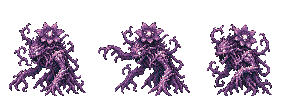
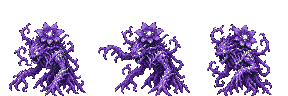
スイナ原画の青紫4色を追加し戦闘素材だけを再配色

Changed region(s): [[0.3438, 0.2188, 0.6562, 1.0], [0.0312, 0.2188, 0.3125, 1.0], [0.7188, 0.25, 0.9688, 1.0]]

diff --git a/tools/import_party_forms.py b/tools/import_party_forms.py
@@ -9,7 +9,7 @@ from validate_assets import load_palette
 COLORS={
 'pc_02':['250F07','3A2317','5D2717','68422F','90422D','9A6048','BF694D','D09279','3D0B14','74281B','B3433F','314619','657B2A','88A441','B2CA60','C8DB7F','D9CCB4','E9E7CB','EEF6EB','CE9F54'],
 'pc_03':['0B1824','162835','254A63','728593','BDC7D3','EEF6EB','3C3B35','58544C','726C61','8A8374','A49A88','B5AA95','C4BAA4','D9CCB4','E9E7CB','3A2317','68422F','CE9F54','EDBB5B','F6D275'],
-'pc_04':['27172A','53335F','8C5996','D991B5','0B1824','153550','254A63','728593','BDC7D3','EEF6EB','3A2317','68422F','CE9F54','D7B778','EDBB5B','F6D275','22221E','58544C','B5AA95','E9E7CB']}
+'pc_04':['2C1251','4D267F','7342B7','A778DE','0B1824','153550','254A63','728593','BDC7D3','EEF6EB','3A2317','68422F','CE9F54','D7B778','EDBB5B','F6D275','22221E','58544C','B5AA95','E9E7CB']}
 WALK_COLORS={
 'pc_02':['250F07','3A2317','68422F','90422D','9A6048','BF694D','D09279','B3433F','314619','657B2A','88A441','C8DB7F','D9CCB4','E9E7CB','EEF6EB','CE9F54'],
 'pc_03':['0B1824','254A63','728593','BDC7D3','EEF6EB','3C3B35','58544C','8A8374','B5AA95','C4BAA4','D9CCB4','E9E7CB','3A2317','68422F','CE9F54','F6D275'],
@@ -43,7 +43,7 @@ def paint(frame,actor,form,pose,kind,palette):
     if actor=='pc_04':
         # 青紫をRGB距離だけで選ぶと淡い桃色へ偏る。紫の段階から明度が近い色を選ぶ。
         purple=(rgb[:,:,2]>rgb[:,:,1]*1.3)&(rgb[:,:,0]>rgb[:,:,1]*1.15)&(rgb[:,:,0]>rgb[:,:,2]*.5)
-        ramp=np.array([[39,23,42],[83,51,95],[140,89,150],[217,145,181],[238,246,235]])
+        ramp=np.array([[44,18,81],[77,38,127],[115,66,183],[167,120,222],[238,246,235]]) if kind=='battle' else np.array([[39,23,42],[83,51,95],[140,89,150],[217,145,181],[238,246,235]])
         lum=(target*[.2126,.7152,.0722]).sum(2)
         levels=(ramp*[.2126,.7152,.0722]).sum(1)
         indices=abs(lum[:,:,None]-levels).argmin(2)
@@ -76,13 +76,13 @@ def paint(frame,actor,form,pose,kind,palette):
     return Image.fromarray(a),dict(gamma=gamma,light_cores=cores,source_glow_pixels=int(glow.sum()))
 
 def main():
-    parser=argparse.ArgumentParser();parser.add_argument('--actors',nargs='+',default=list(ACTORS));parser.add_argument('--forms',nargs='+',default=FORMS);args=parser.parse_args()
+    parser=argparse.ArgumentParser();parser.add_argument('--actors',nargs='+',default=list(ACTORS));parser.add_argument('--forms',nargs='+',default=FORMS);parser.add_argument('--kinds',nargs='+',choices=['battle','walk'],default=['battle','walk']);args=parser.parse_args()
     registry_path=ROOT/'assets/registry.json';registry=json.loads(registry_path.read_text(encoding='utf-8'));entries={e['path']:e for e in registry['assets']}
     visuals=json.loads((ROOT/'data/character_visuals.json').read_text(encoding='utf-8'))
     sources={(r['actor'],r['form']):r for r in json.loads((ROOT/'assets/source_records/party-form-cutouts.json').read_text(encoding='utf-8'))}
     record_path=ROOT/'assets/source_records/party-form-conversion.json'
     records=json.loads(record_path.read_text(encoding='utf-8')) if record_path.exists() else []
-    records=[r for r in records if not(r['actor'] in args.actors and r['form'] in args.forms)]
+    records=[r for r in records if not(r['actor'] in args.actors and r['form'] in args.forms and r['kind'] in args.kinds)]
     full_palette=load_palette(ROOT/'assets/palette/natural.gpl')
     for actor in args.actors:
         for form in args.forms:
@@ -94,6 +94,7 @@ def main():
                 all_frames=[all_frames[i] for i in order]
             source=sources[actor,form]
             for kind,frames,width,height,grid in [('battle',all_frames[:3],96,96,[3,1]),('walk',all_frames[3:],32,48,[3,4])]:
+                if kind not in args.kinds:continue
                 codes=COLORS[actor] if kind=='battle' else WALK_COLORS[actor]
                 palette=np.array([[int(c[i:i+2],16) for i in (0,2,4)] for c in codes],dtype=np.int32)
                 assert len(codes)<=(20 if kind=='battle' else 16) and set(map(tuple,palette.tolist()))<=full_palette
@@ -116,6 +117,7 @@ def main():
             prompt_path.write_text(json.dumps(prompt,ensure_ascii=False,indent=2)+'\n',encoding='utf-8',newline='\n')
             print('PARTY_FORM_IMPORTED:',actor,form,flush=True)
     registry_path.write_text(json.dumps(registry,ensure_ascii=False,indent=2)+'\n',encoding='utf-8',newline='\n')
+    records.sort(key=lambda r:(r['actor'],FORMS.index(r['form']),0 if r['kind']=='battle' else 1))
     record_path.write_text(json.dumps(records,ensure_ascii=False,indent=2)+'\n',encoding='utf-8',newline='\n')
 
 if __name__=='__main__':main()

diff --git a/tools/extend_natural_violet.py b/tools/extend_natural_violet.py
@@ -1,0 +1,33 @@
+"""依頼者のスイナ原画に実在する青紫4色を共通パレット末尾へ追加する。"""
+from pathlib import Path
+import json,hashlib,subprocess
+import numpy as np
+from PIL import Image
+
+ROOT=Path(__file__).resolve().parents[1]
+BASE='35222876e1a5aa40dcdd51b19a2f927996c63290'
+PALETTE='assets/palette/natural.gpl'
+RECORD=ROOT/'assets/source_records/natural-violet-extension.json'
+
+def main():
+    original=subprocess.run(['git','show',BASE+':'+PALETTE],cwd=ROOT,check=True,capture_output=True).stdout
+    samples=[];locations=[]
+    for number,box in [(1104,(0,180,735,610)),(1108,(0,175,1168,590)),(1109,(855,170,1168,565))]:
+        path=f'assets/_incoming/owner-2026-09-28/monster-job-images/IMG_{number}.PNG'
+        rgb=np.array(Image.open(ROOT/path).convert('RGB'));x1,y1,x2,y2=box;crop=rgb[y1:y2,x1:x2].astype(np.int32)
+        mask=(crop[:,:,2]>crop[:,:,0]*1.2)&(crop[:,:,0]>crop[:,:,1]*1.2)&(crop[:,:,2]>crop[:,:,1]*1.4)&(crop[:,:,2]>80)
+        yy,xx=np.where(mask);samples.append(crop[mask]);locations.extend((path,int(x+x1),int(y+y1)) for y,x in zip(yy,xx))
+    values=np.concatenate(samples);selected=[]
+    for target in [[45,19,79],[77,38,127],[115,66,183],[167,119,223]]:
+        index=int(((values-np.array(target))**2).sum(1).argmin());color=values[index].tolist();path,x,y=locations[index]
+        assert list(Image.open(ROOT/path).convert('RGB').getpixel((x,y)))==color
+        selected.append(dict(rgb=color,hex=''.join(f'{v:02X}' for v in color),source=path,source_xy=[x,y],source_sha256=hashlib.sha256((ROOT/path).read_bytes()).hexdigest()))
+    assert len({r['hex'] for r in selected})==4
+    extension='\n# Owner-approved source violet extension; 2026-09-29\n'+''.join(f"{r['rgb'][0]:3} {r['rgb'][1]:3} {r['rgb'][2]:3}\t#{r['hex']}\n" for r in selected)
+    expected=original+extension.encode('utf-8')
+    current=(ROOT/PALETTE).read_bytes();assert current in (original,expected),'既存パレットの内容が比較元と異なる'
+    (ROOT/PALETTE).write_bytes(expected)
+    RECORD.write_text(json.dumps(dict(baseline=BASE,original_sha256=hashlib.sha256(original).hexdigest(),original_color_count=68,new_color_count=72,selected=selected,palette_sha256=hashlib.sha256(expected).hexdigest()),ensure_ascii=False,indent=2)+'\n',encoding='utf-8',newline='\n')
+    print('NATURAL_VIOLET: 68色の順序・値・原本バイトを保持、4色追加', [r['hex'] for r in selected])
+
+if __name__=='__main__':main()

diff --git a/tools/validate_assets.py b/tools/validate_assets.py
@@ -296,8 +296,8 @@ def main() -> int:
         palette_cache[rel] = selected
         if selected is None:
             errors.append(f"{rel}: 指定パレットが存在しない、または色が空")
-        elif len(selected) > (68 if rel == 'assets/palette/natural.gpl' else 64):
-            errors.append(f"{rel}: パレットの色数超過 {len(selected)} 色 / 上限{68 if rel == 'assets/palette/natural.gpl' else 64}色")
+        elif len(selected) > (72 if rel == 'assets/palette/natural.gpl' else 64):
+            errors.append(f"{rel}: パレットの色数超過 {len(selected)} 色 / 上限{72 if rel == 'assets/palette/natural.gpl' else 64}色")
 
     for entry in entries:
         entry.setdefault("max_colors", defaults.get("max_colors"))

diff --git a/docs/asset-spec.md b/docs/asset-spec.md
@@ -33,7 +33,7 @@ textures/canvas_textures/default_texture_filter=0   # Nearest
 2026年9月26日改訂：旧素材は `base.gpl`、新絵柄の素材は台帳の `palette` 欄で指定する `assets/palette/natural.gpl` を使う。素材スプリント以降の新絵柄は、人物の識別色と輪郭を保って自然色へ再配色する。`bright.gpl` は以前の素材作成記録として残す。`palette` がない項目は `defaults.palette` に従う。各パレットは64色以内とし、以下の1素材あたりの色数とアルファの規則は変えない。`base.gpl` は変更しない。
 
 - 共通パレット: `assets/palette/base.gpl`（GIMP パレット形式。Aseprite / Libresprite / GIMP で読める）
-- パレット全体の上限: **64 色**。2026年9月28日の依頼者承認により `natural.gpl` だけは、既存64色を順番・値とも保持して深紅4色を末尾へ追加し、**68色以内**とする。他のパレットと各素材の上限はこの追加では変更しない。
+- パレット全体の上限: **64 色**。2026年9月28日の依頼者承認により `natural.gpl` だけは、既存64色を順番・値とも保持して深紅4色を末尾へ追加し、**68色以内**とする。2026年9月29日、依頼者はスイナ原画に実在する青紫を最大4色、末尾へ追加することを承認した。既存68色を保ち、natural.gplは**72色以内**とする。他のパレットと各素材の上限は変更しない。
 - 1つのキャラクター素材で使える色: **16 色以内**。仲間の戦闘素材だけは、2026年9月28日の依頼者承認により全職業共通で**20色以内**とする。魔物化した仲間の戦闘素材にも同じ上限を適用する。歩行・敵・背景などの上限は変更しない。
 - 不透明ピクセルの色は、必ずパレットに含まれる色であること
 - **アルファ値は 0 か 255 のみ。** 中間値（半透明・アンチエイリアスの縁）を含めない
